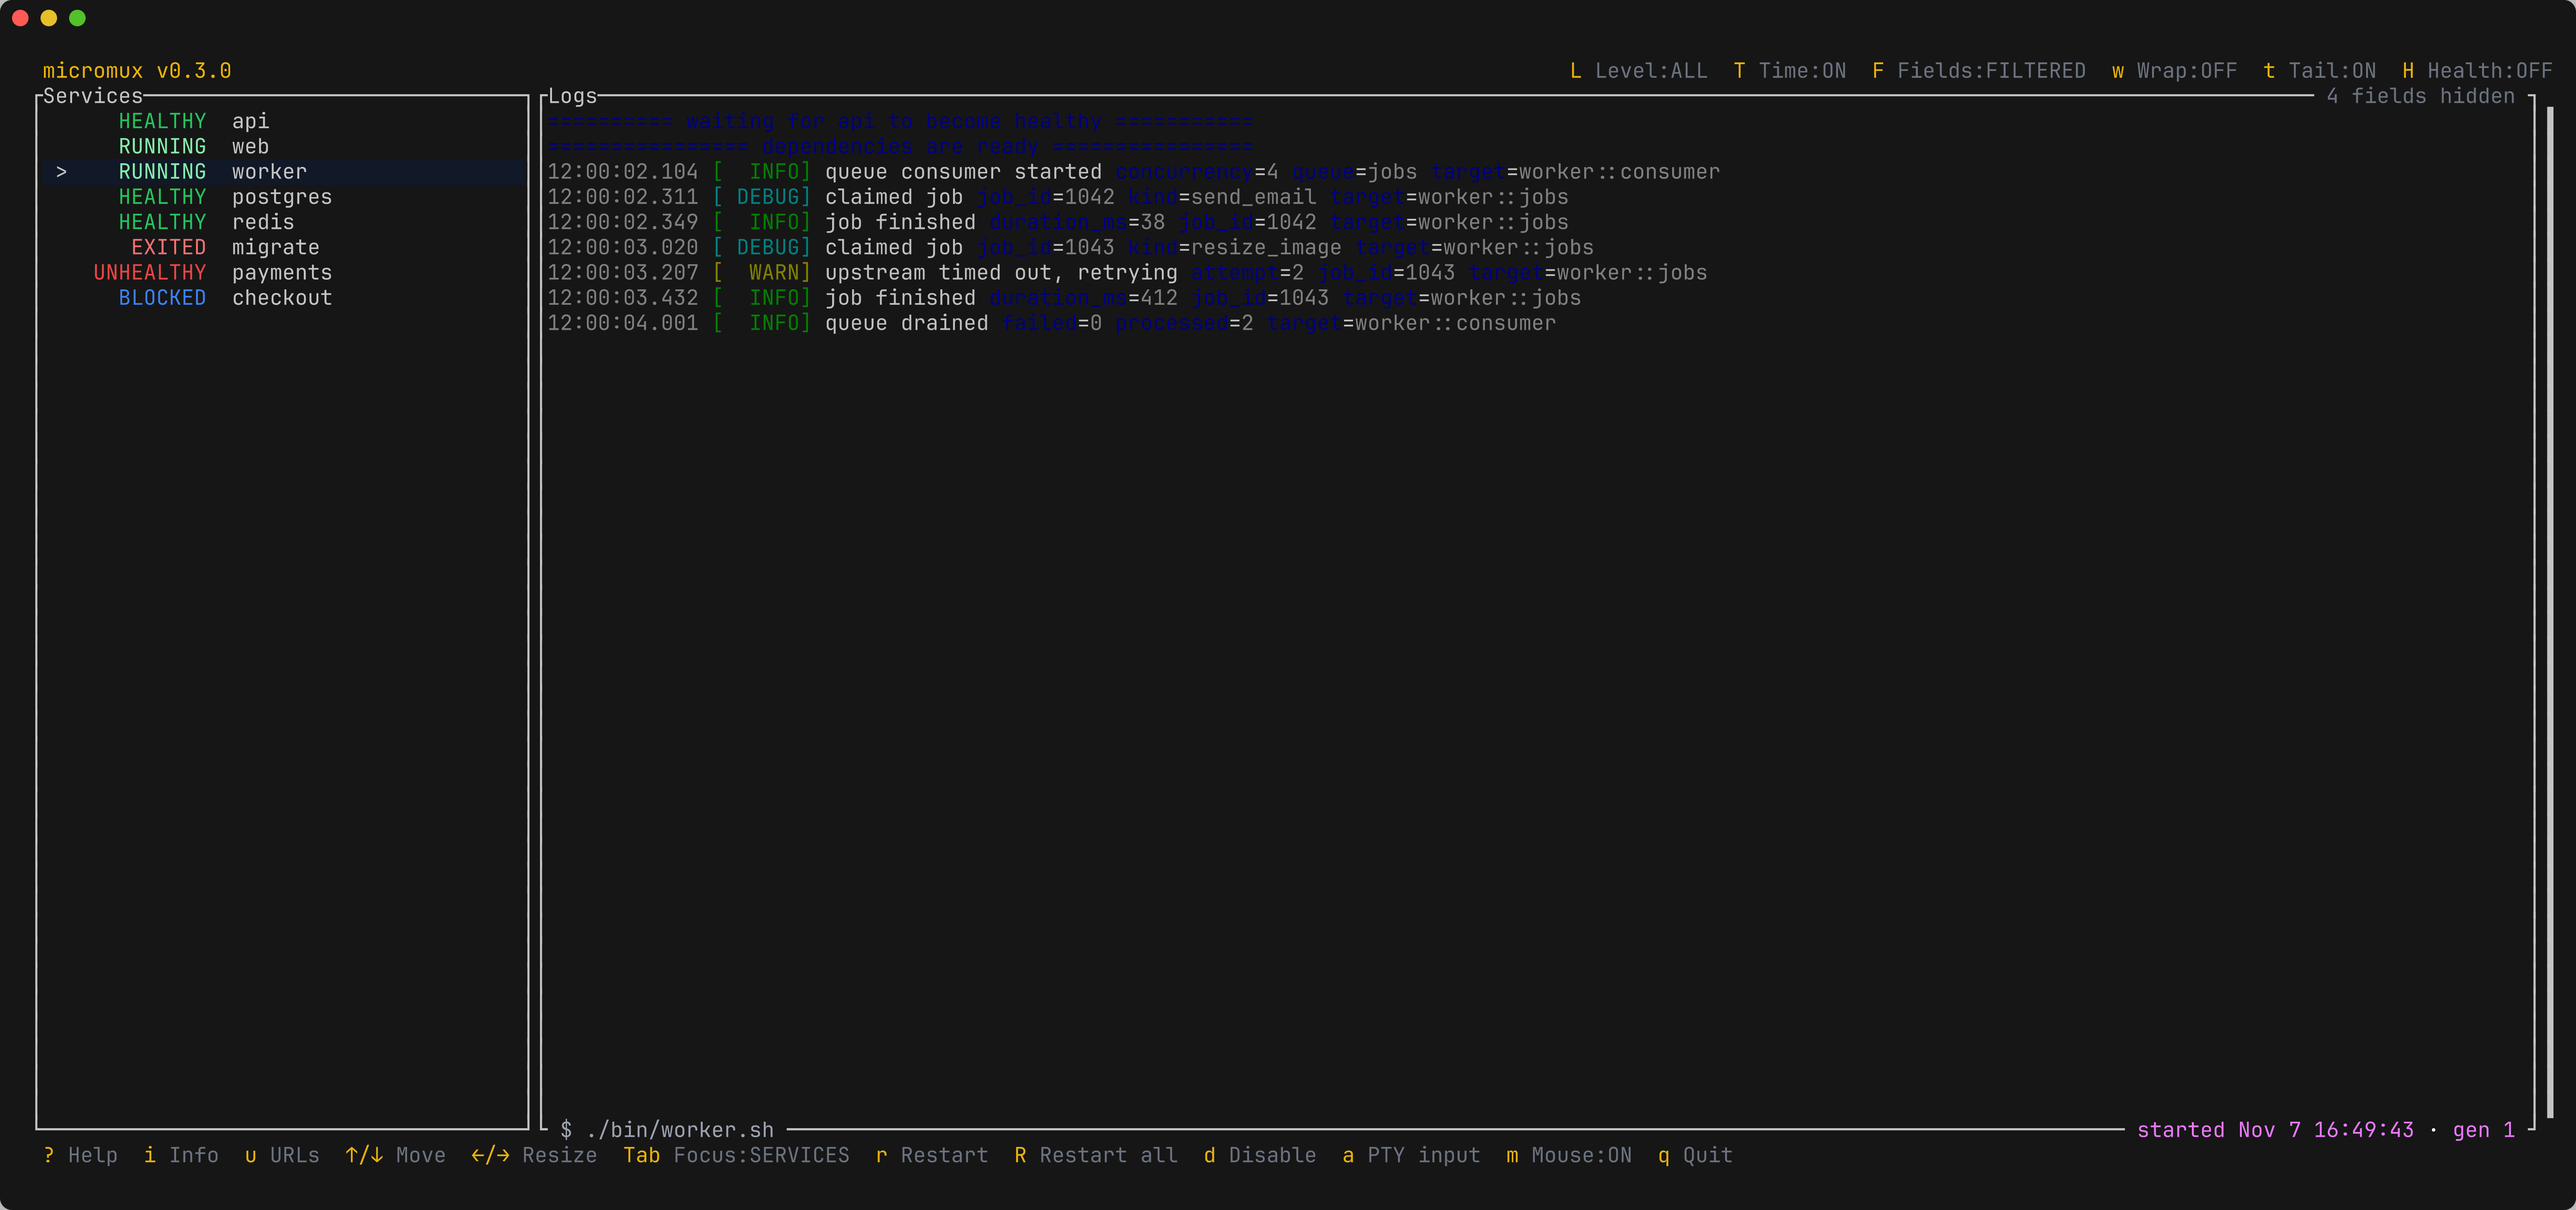
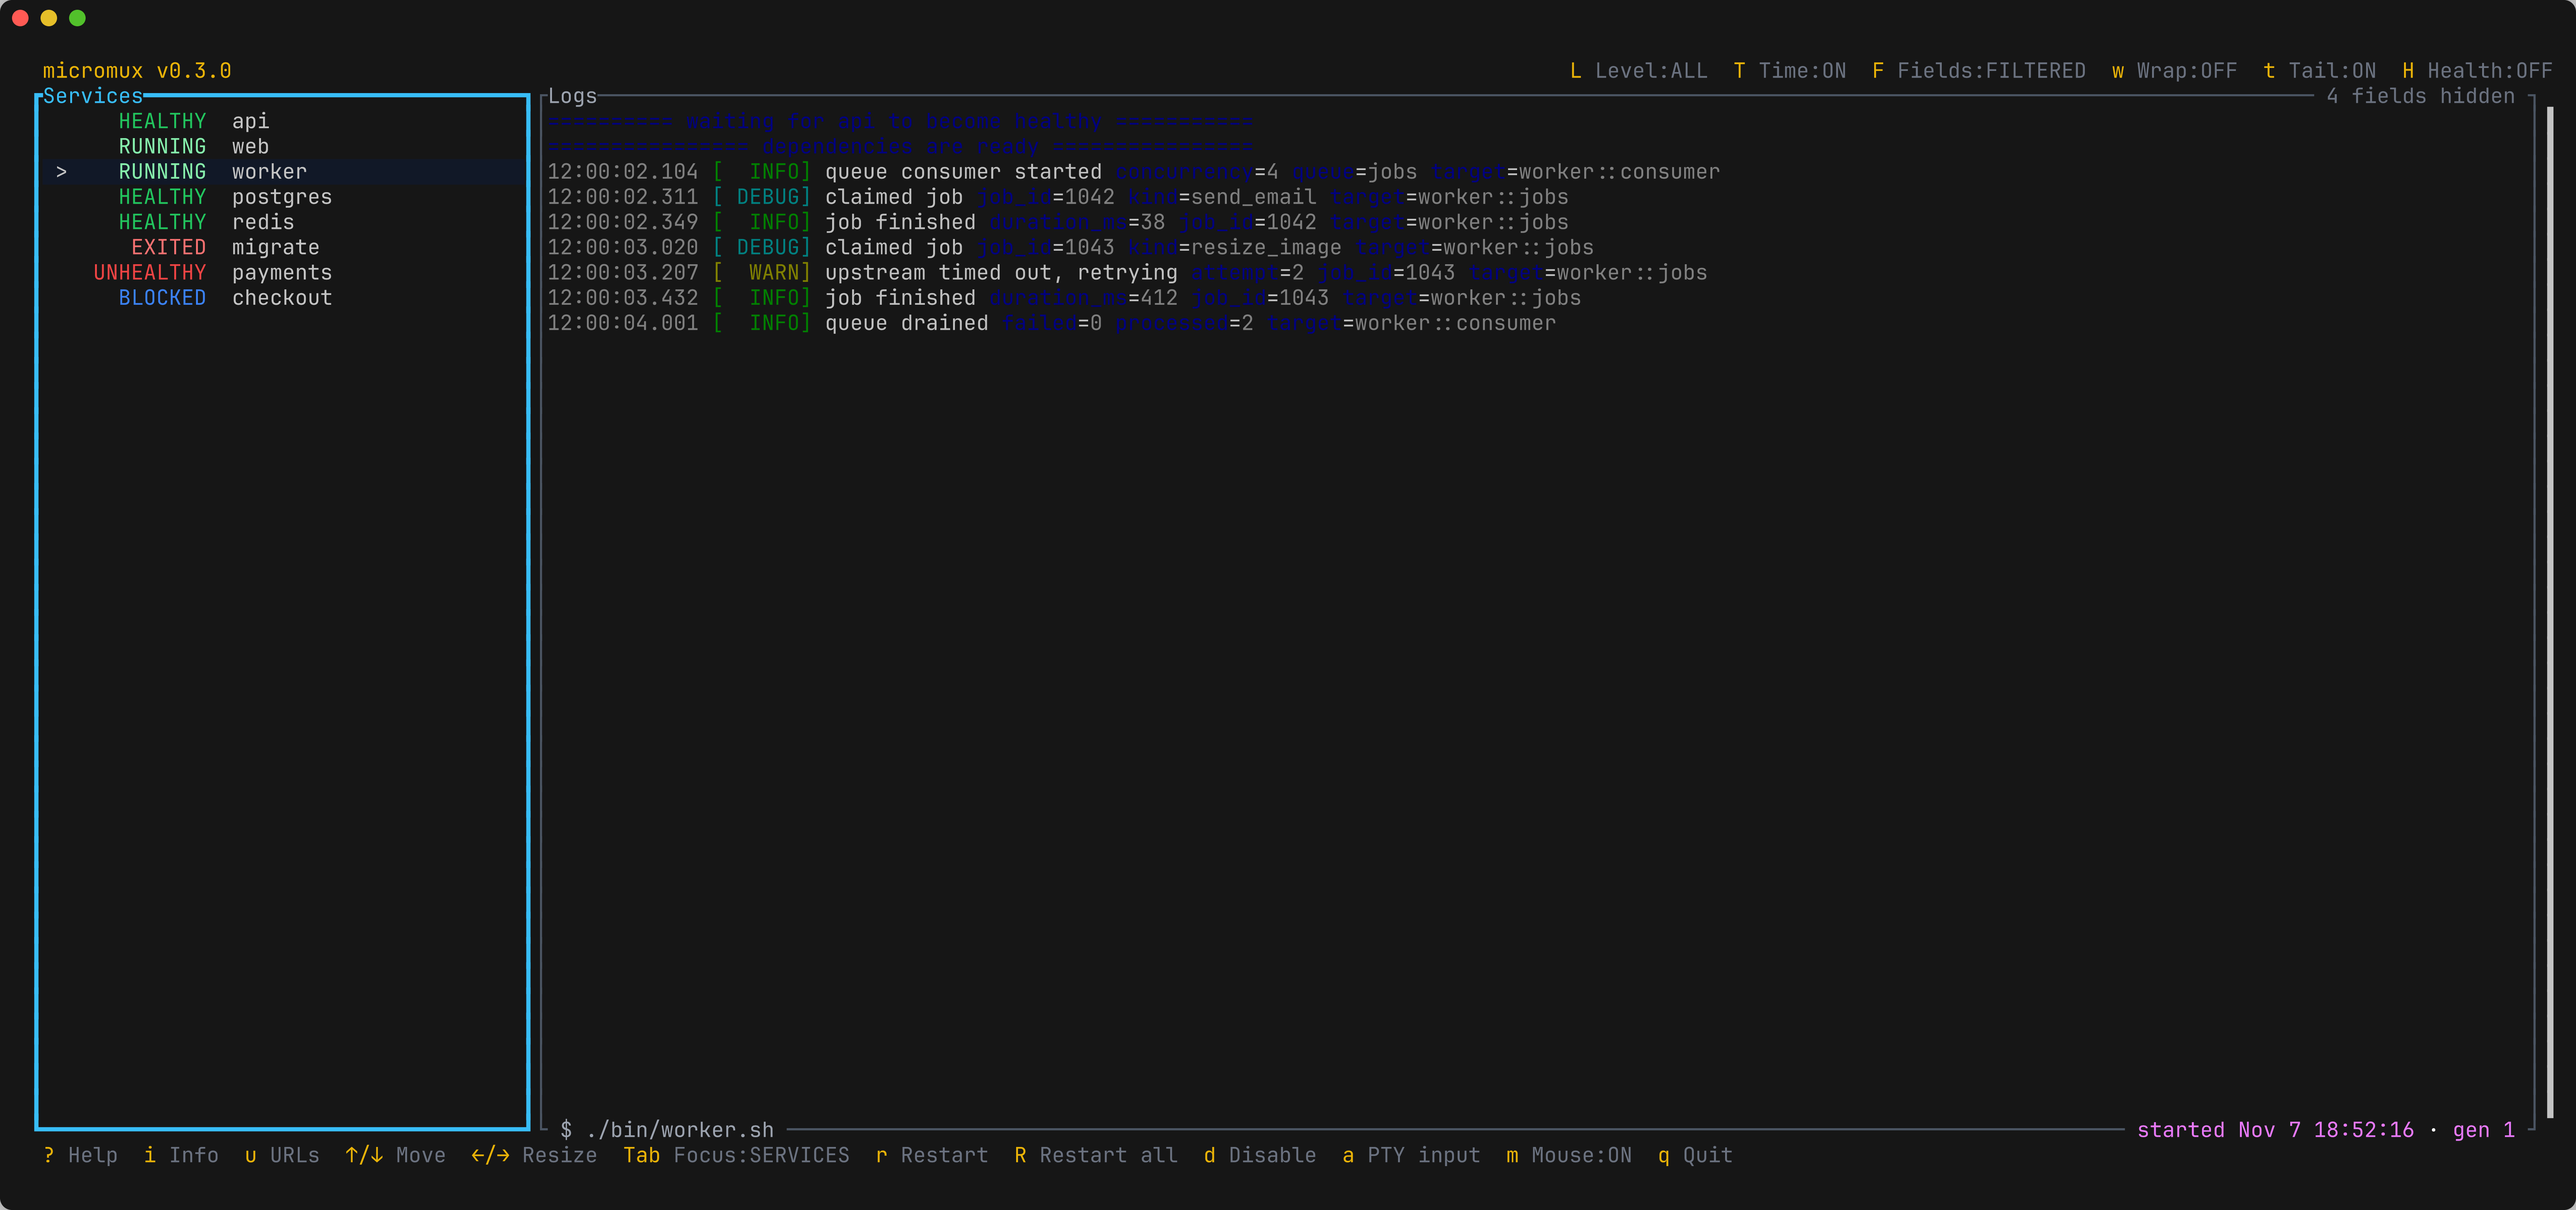
feat(tui): draw the focused pane with a thick, accented frame
The focused pane's frame is thick and sky blue with a bold title, and
the others are plain and dim, so the focus shows at a glance and, by
thickness alone, without color.

Changed region(s): [[0.0312, 0.062, 0.2184, 0.0931], [0.0312, 0.9305, 0.1872, 0.9615]]

diff --git a/crates/micromux-tui/src/render.rs b/crates/micromux-tui/src/render.rs
@@ -54,6 +54,7 @@ mod tests {
                 title: Line::raw("Logs"),
                 status: None,
                 detail: None,
+                focused: false,
             },
             buf,
         )
@@ -248,6 +249,7 @@ mod tests {
                 title: Line::raw("Logs"),
                 status: None,
                 detail: Some(service_detail(&snapshot, 1_000)),
+                focused: false,
             },
             &mut buf,
         );
@@ -1666,6 +1668,38 @@ fn lease_phrase(expires_at_unix_ms: Option<u64>, now_unix_ms: u64) -> String {
     }
 }
 
+/// A pane's frame, which shows whether the pane has the focus: thick and in the accent color
+/// when it has, plain and dim when not.
+///
+/// The thickness alone tells the focused pane apart where the terminal shows no color.
+fn pane_block<'a>(focused: bool) -> Block<'a> {
+    let block = Block::default().borders(Borders::ALL);
+    if focused {
+        block
+            .border_type(ratatui::widgets::BorderType::Thick)
+            .border_style(Style::default().fg(FOCUS_COLOR))
+    } else {
+        block.border_style(Style::default().fg(UNFOCUSED_COLOR))
+    }
+}
+
+/// A pane's name for its frame's title: bold and in the accent color when the pane has the
+/// focus, dim when not.
+fn pane_name(name: &str, focused: bool) -> Span<'static> {
+    let span = Span::raw(name.to_string());
+    if focused {
+        span.bold().fg(FOCUS_COLOR)
+    } else {
+        span.fg(tailwind::GRAY.c400)
+    }
+}
+
+/// The accent of the focused pane's frame.
+pub(crate) const FOCUS_COLOR: Color = tailwind::SKY.c400;
+
+/// The frame of a pane without the focus.
+const UNFOCUSED_COLOR: Color = tailwind::GRAY.c600;
+
 /// Color of the command in the logs pane's bottom border.
 const BORDER_COMMAND_COLOR: Color = tailwind::GRAY.c400;
 /// Color of the run facts in the logs pane's bottom border.
@@ -2082,7 +2116,8 @@ impl App {
             })
             .collect();
 
-        let block = Block::default().borders(Borders::ALL).title("Services");
+        let block = pane_block(self.focus == crate::Focus::Services)
+            .title(pane_name("Services", self.focus == crate::Focus::Services));
         let rows = block.inner(area);
         // The list scrolls on from where the last frame left it, so the rows a click lands on
         // stay put once the selection moves to one of them.
@@ -2177,6 +2212,10 @@ impl App {
             &service_urls(session.as_ref(), &current_service.snapshot.id),
             title_width,
         );
+        let mut title = title;
+        if let Some(name) = title.spans.first_mut() {
+            *name = pane_name("Logs", self.focus == crate::Focus::Logs);
+        }
         // The title starts right after the pane's top-left corner.
         let links = url_columns
             .into_iter()
@@ -2204,6 +2243,7 @@ impl App {
                 title,
                 status,
                 detail: Some(detail),
+                focused: self.focus == crate::Focus::Logs,
             },
             buf,
         );
@@ -2271,9 +2311,13 @@ impl App {
             &service.healthcheck_cached_line_index,
             &service.healthcheck_cached_text,
             log_view::PaneBorders {
-                title: Line::raw("Healthcheck"),
+                title: Line::from(pane_name(
+                    "Healthcheck",
+                    self.focus == crate::Focus::Healthcheck,
+                )),
                 status: None,
                 detail: None,
+                focused: self.focus == crate::Focus::Healthcheck,
             },
             buf,
         );
@@ -2514,10 +2558,7 @@ pub mod log_view {
     use ratatui::{
         buffer::Buffer,
         layout::{Constraint, Direction, Layout, Rect},
-        widgets::{
-            Block, Borders, Clear, Paragraph, Scrollbar, ScrollbarState, StatefulWidget, Widget,
-            Wrap,
-        },
+        widgets::{Clear, Paragraph, Scrollbar, ScrollbarState, StatefulWidget, Widget, Wrap},
     };
 
     /// Narrowest left border text worth drawing; below it the truncation marker would crowd out
@@ -2537,6 +2578,8 @@ pub mod log_view {
         pub status: Option<ratatui::text::Line<'static>>,
         /// Identity facts along the bottom border.
         pub detail: Option<BorderDetail>,
+        /// Whether the pane has the focus, which its frame shows.
+        pub focused: bool,
     }
 
     /// Facts drawn into a pane's bottom border.
@@ -2711,6 +2754,7 @@ pub mod log_view {
                 title,
                 status,
                 detail,
+                focused,
             } = borders;
             let num_lines = line_index.total_lines();
             let [log_area, scrollbar_area] = Layout::default()
@@ -2752,7 +2796,7 @@ pub mod log_view {
                 self.wrap,
             );
 
-            let mut block = Block::default().borders(Borders::ALL).title(title);
+            let mut block = super::pane_block(focused).title(title);
             if let Some(status) = status {
                 block = block.title(status.right_aligned());
             }

diff --git a/crates/micromux-tui/src/mouse/tests.rs b/crates/micromux-tui/src/mouse/tests.rs
@@ -1045,3 +1045,49 @@ async fn the_wheel_leaves_a_pane_with_nothing_to_scroll_following() -> eyre::Res
     }
     Ok(())
 }
+
+#[tokio::test]
+async fn the_focused_pane_has_a_thick_accented_frame() -> eyre::Result<()> {
+    let mut app = app(SERVICES)?;
+    press_key(&mut app, KeyCode::Char('H'));
+    // Each pane's top-left corner, found by its name drawn right after it.
+    let corners = |app: &mut App| -> eyre::Result<Vec<(String, String)>> {
+        let frame = draw(app);
+        ["Services", "Logs", "Healthcheck"]
+            .into_iter()
+            .map(|name| {
+                let at = find(&frame, name)?;
+                let corner = frame
+                    .cell((at.x - 1, at.y))
+                    .ok_or_else(|| eyre::eyre!("no corner before {name}"))?;
+                Ok((name.to_string(), corner.symbol().to_string()))
+            })
+            .collect()
+    };
+    let thick = |corners: &[(String, String)]| {
+        corners
+            .iter()
+            .filter(|(_, corner)| corner == "┏")
+            .map(|(name, _)| name.clone())
+            .collect::<Vec<_>>()
+    };
+
+    // Exactly the focused pane is drawn thick, which tells it apart without any color.
+    assert_eq!(thick(&corners(&mut app)?), vec!["Services".to_string()]);
+    press_key(&mut app, KeyCode::Tab);
+    assert_eq!(thick(&corners(&mut app)?), vec!["Logs".to_string()]);
+    press_key(&mut app, KeyCode::Tab);
+    assert_eq!(thick(&corners(&mut app)?), vec!["Healthcheck".to_string()]);
+
+    // A click moves the frame as Tab does, and the focused frame takes the accent color.
+    let frame = draw(&mut app);
+    click(&mut app, find(&frame, "web")?);
+    assert_eq!(thick(&corners(&mut app)?), vec!["Services".to_string()]);
+    let frame = draw(&mut app);
+    let services = find(&frame, "Services")?;
+    let logs = find(&frame, "Logs")?;
+    let color = |at: Position| frame.cell((at.x - 1, at.y)).map(|cell| cell.fg);
+    assert_eq!(color(services), Some(crate::render::FOCUS_COLOR));
+    assert_ne!(color(logs), Some(crate::render::FOCUS_COLOR));
+    Ok(())
+}

diff --git a/docs/content/docs/tui.md b/docs/content/docs/tui.md
@@ -15,6 +15,8 @@ Running `micromux` with no subcommand opens the TUI for the current project. It'
 - **Log pane** — the selected service's live output, annotated with the lifecycle transitions that stall it. ANSI color and interactive/redrawing output are supported.
 - **Healthcheck pane** — toggled with `H`, it shows the selected service's latest probe: the command, its exit status, and its output.
 
+The pane with the focus, which the movement keys act on, has a thick frame in an accent color; `Tab` or a click moves it. The thickness tells it apart even where the terminal shows no color.
+
 ## Keybindings
 
 The header's right side lists the view keys, which change only what the panes show, with their current state. With [routes]({{< relref "configuration/sessions.md" >}}#hostnames), the Logs pane's title lists the browser URLs of the selected service, the routes whose port is in its `ports` list, as many as fit, then a count of the rest; the header says so in red when the shared proxy does not serve them right now. The footer lists the keys that move around and act on services. Both wrap onto extra rows when the terminal is too narrow.
